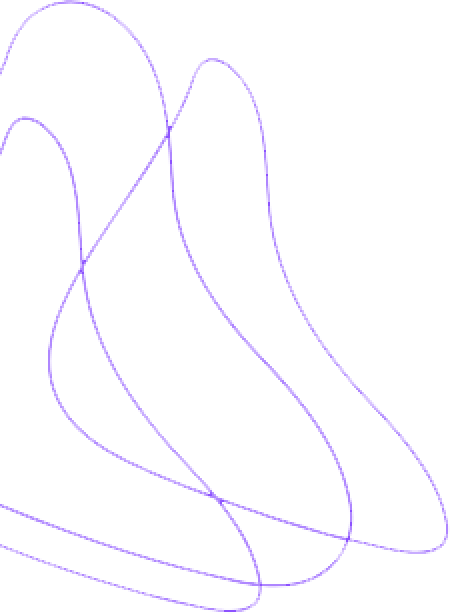
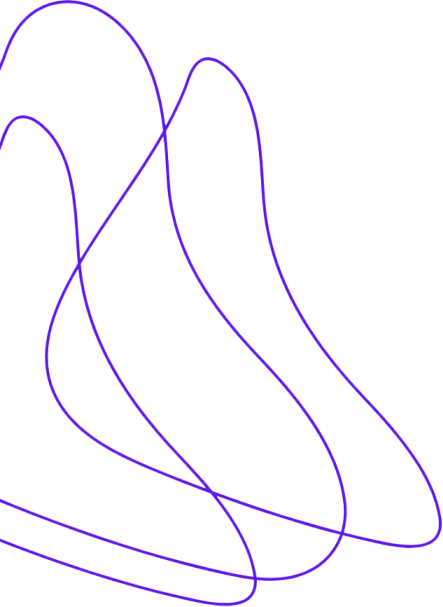
fix: Paddings e imagens melhores adicionadas

diff --git a/src/components/Seções/Apresent.tsx b/src/components/Seções/Apresent.tsx
@@ -28,7 +28,7 @@ const Apresent = () => {
         <p className="text-3xl">Foco em resultados e designs responsivos</p>
       </section>
 
-      <div className="flex justify-between w-full">
+      <div className="flex justify-between w-full pt-6">
         <Image
           src="/assets/pattern1.png"
           alt="pattern1"
@@ -38,8 +38,8 @@ const Apresent = () => {
         <Image
           src="/assets/pattern3.png"
           alt="pattern1"
-          width={500}
-          height={500}
+          width={600}
+          height={600}
         />
         <Image
           src="/assets/pattern4.png"

diff --git a/src/components/Seções/Tecnologias.tsx b/src/components/Seções/Tecnologias.tsx
@@ -3,7 +3,7 @@ import { Tecs } from "../Tecs";
 
 const Tecnologias = () => {
   return (
-    <section className="flex flex-col h-screen w-full pt-5 items-center">
+    <section className="flex flex-col h-screen w-full pt-10 items-center">
       <div className="flex w-full items-center justify-center gap-10">
         <div className="border-b-2 w-[20%]"></div>
         <p className="text-4xl font-bold">Tecnologias</p>
